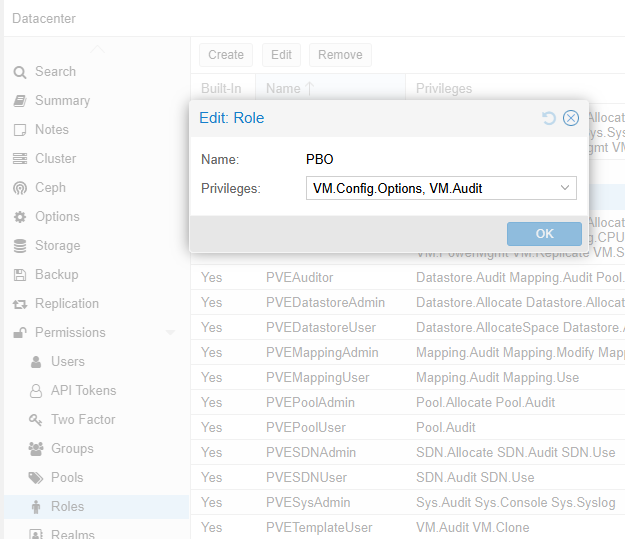
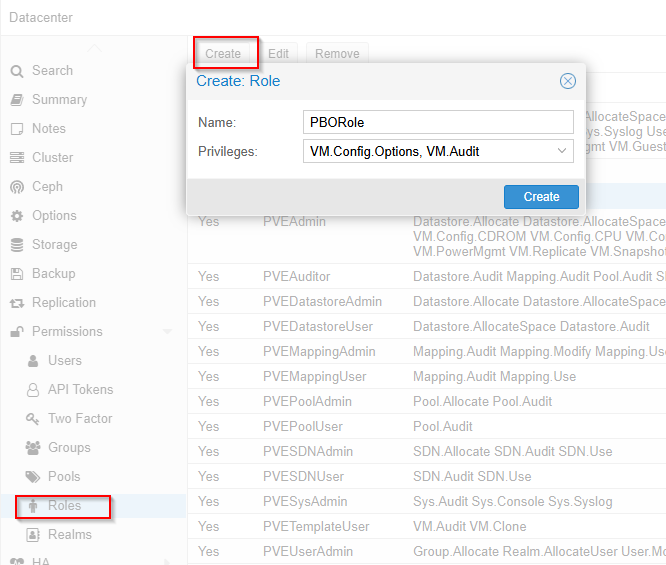
docs: improve proxmox token warning

diff --git a/docs/PROXMOX-API-TOKEN.md b/docs/PROXMOX-API-TOKEN.md
@@ -70,7 +70,8 @@ Privilege Separation : activé
 
 ![Création du token API](assets/screenshots/proxmox-token/04-api-token-add.png)
 
-<p style="color:red;"><strong>COPIER IMMÉDIATEMENT LE SECRET. PROXMOX NE L'AFFICHE QU'UNE SEULE FOIS.</strong></p>
+> [!IMPORTANT]
+> **COPIER IMMÉDIATEMENT LE SECRET. PROXMOX NE L'AFFICHE QU'UNE SEULE FOIS.**
 
 ### 5. Donner le rôle au token
 

diff --git a/CHANGELOG.md b/CHANGELOG.md
@@ -10,6 +10,7 @@ Release documentation et correction du formulaire de connexion.
 - Recommandation d'un utilisateur Proxmox dédié pour porter le token PBO.
 - Clarification des ACL à appliquer à l'utilisateur dédié et au token Proxmox.
 - Captures d'écran pour la création du token Proxmox.
+- Alerte GitHub native pour rappeler de copier immédiatement le secret du token.
 
 ### Corrige
 

diff --git a/ROADMAP.md b/ROADMAP.md
@@ -12,6 +12,7 @@ Objectif : fournir une interface stable et légère pour gérer l'ordre de déma
 - Recommandation d'un utilisateur Proxmox dédié pour porter le token.
 - Clarification des ACL utilisateur/token Proxmox.
 - Captures d'écran pour la création du token Proxmox.
+- Alerte de documentation pour le secret du token Proxmox.
 - Support VM QEMU.
 - Support conteneurs LXC.
 - Découverte automatique des ressources.